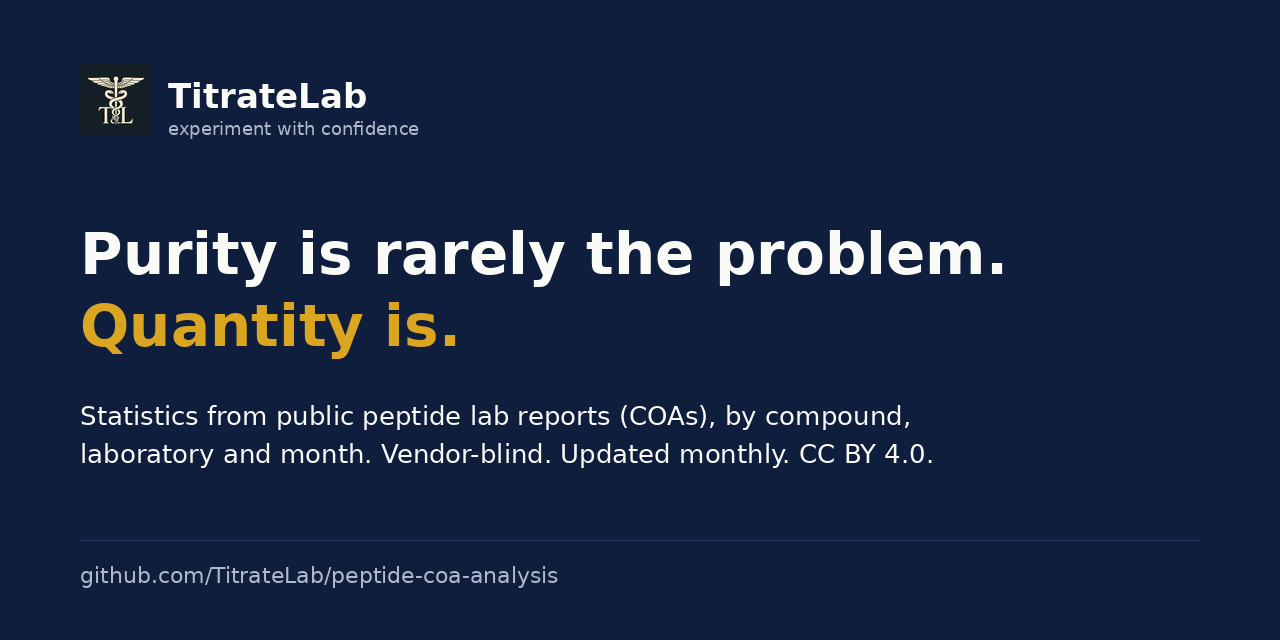
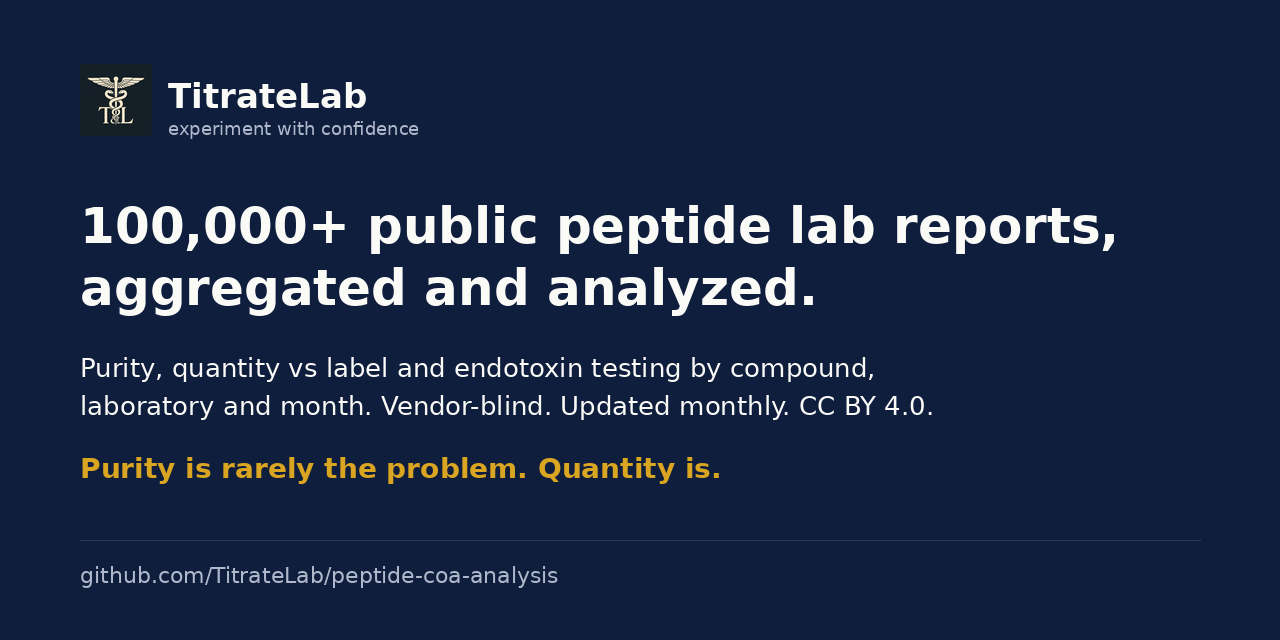
README: scale block and what-the-data-looks-like section; card states the volume

Changed region(s): [[0.0625, 0.3125, 0.875, 0.5938], [0.0625, 0.625, 0.7188, 0.75]]

diff --git a/README.md b/README.md
@@ -4,6 +4,43 @@
 
 The per-record evidence, with the laboratory, client and batch as printed on each public report, is searchable at [titratelab.com/coa](https://titratelab.com/coa?src=github). This repository holds what can be said about the corpus as a whole.
 
+## Scale
+
+| | |
+|---|---|
+| Published lab-report entries in the corpus | **116,363** |
+| Distinct certificate identifiers | 115,076 (upper bound; key in the manifest) |
+| Reports in these tables | 96,805 across 68 compounds and 26 named laboratories |
+| Time span | Jul 2022 to Sep 2026, with 79,217 reports in the last 12 full months |
+| Measurements inside | 86,594 purity results, 68,267 quantity-versus-label results, 12,516 endotoxin results, 95,221 laboratory verification links |
+
+For comparison, the other open peptide lab datasets measured on 2026-10-12 hold 233, 78 and 500 rows (table [below](#other-open-peptide-lab-datasets)).
+
+## What the data looks like
+
+Each underlying record is one laboratory report for one vial. The fields TitrateLab extracts from it, with illustrative values, and where each one lands in these files:
+
+| Field on the report | Illustrative value | In these files as |
+|---|---|---|
+| Laboratory | Janoshik | `lab` in `labs.csv` and `lab_month.csv` |
+| Compound as printed, then resolved | "Retatrutide 10mg" resolves to Retatrutide | `compound` |
+| Test date | 2026-08-14 | `month` |
+| Purity (chromatographic area) | 99.7% | `purity_results`, `median_purity_pct`, `zero_identity_results` |
+| Printed label versus tested quantity | 10 mg on the label, 9.4 mg found, deviation -6% | `quantity_results`, `quantity_within_10pct_pct`, `quantity_more_than_10pct_under_label` |
+| Endotoxin | below detection limit | `endotoxin_results` |
+| Verification link printed by the laboratory | present | `verifiable_records` |
+| Client, batch, certificate number | printed on the report, never released here | absent by design |
+
+The values above are illustrative, not a real record. The real per-record values, with laboratory, client and batch as printed, are searchable at [titratelab.com/coa](https://titratelab.com/coa?src=github).
+
+One real row from `compounds.csv` in this release:
+
+| compound | test_records | purity_results | median_purity_pct | quantity_results | quantity_within_10pct_pct | endotoxin_results | verifiable_records |
+|---|---:|---:|---:|---:|---:|---:|---:|
+| Retatrutide | 19,632 | 18,008 | 99.85 | 16,225 | 51.1% | 4,256 | 19,373 |
+
+Read it as: 19,632 published reports for Retatrutide. 18,008 of them carry a purity figure, with a median of 99.85%. 16,225 state a tested quantity against the label, and 51.1% of those fall within 10% of it. 4,256 include an endotoxin result. 19,373 carry the laboratory's verification link.
+
 ## What the data shows
 
 1. **Purity is rarely the problem. Quantity is.** Across the 35 compounds with at least 100 quantity results, the share of vials within 10% of the printed label runs from 22.2% (LL-37) to 90.1% (Glutathione). Overall, 49.9% of 68,267 quantity results are within 10% of label and 4,473 are more than 10% under it. [Analysis](analysis/01-quantity-vs-label.md)
